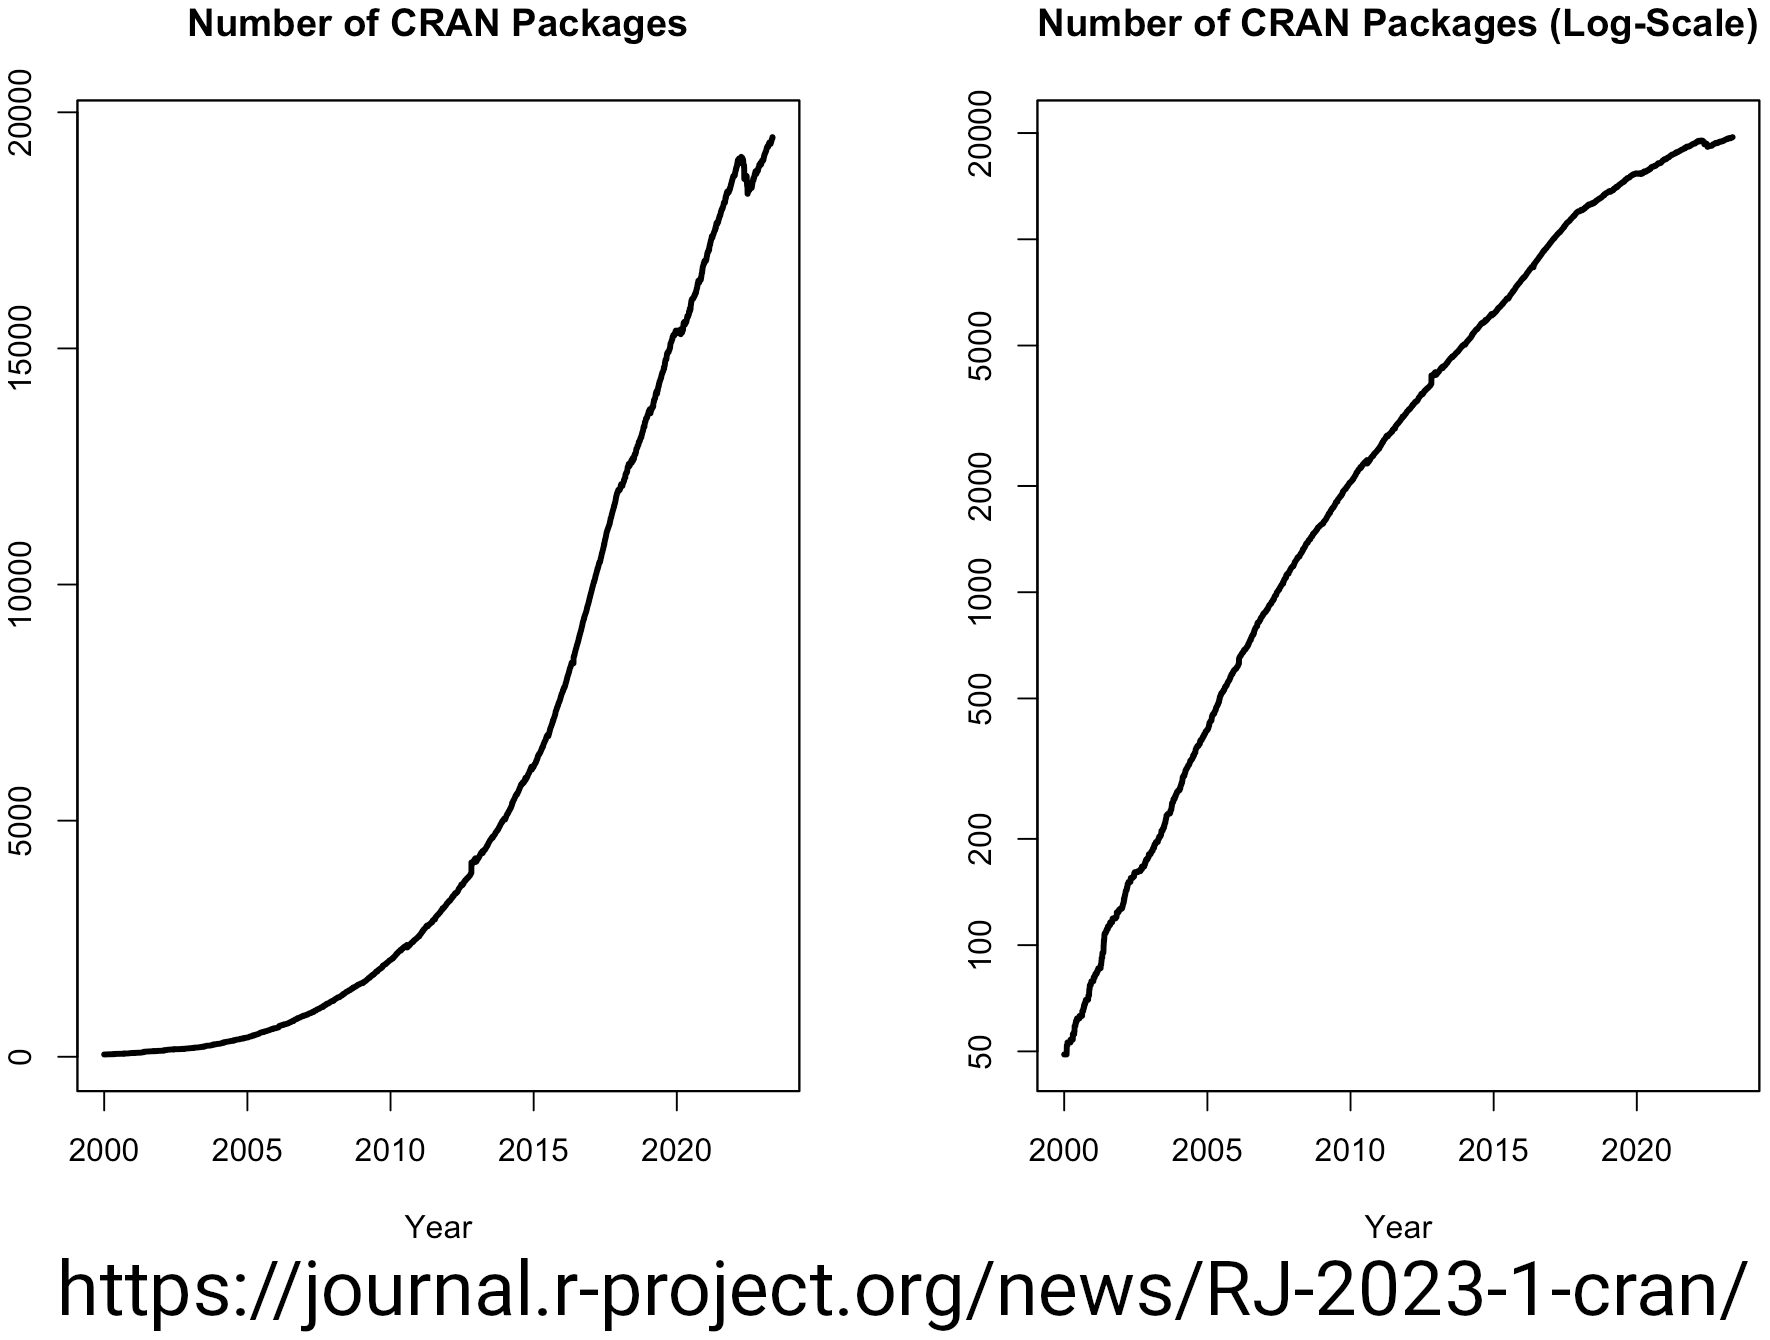
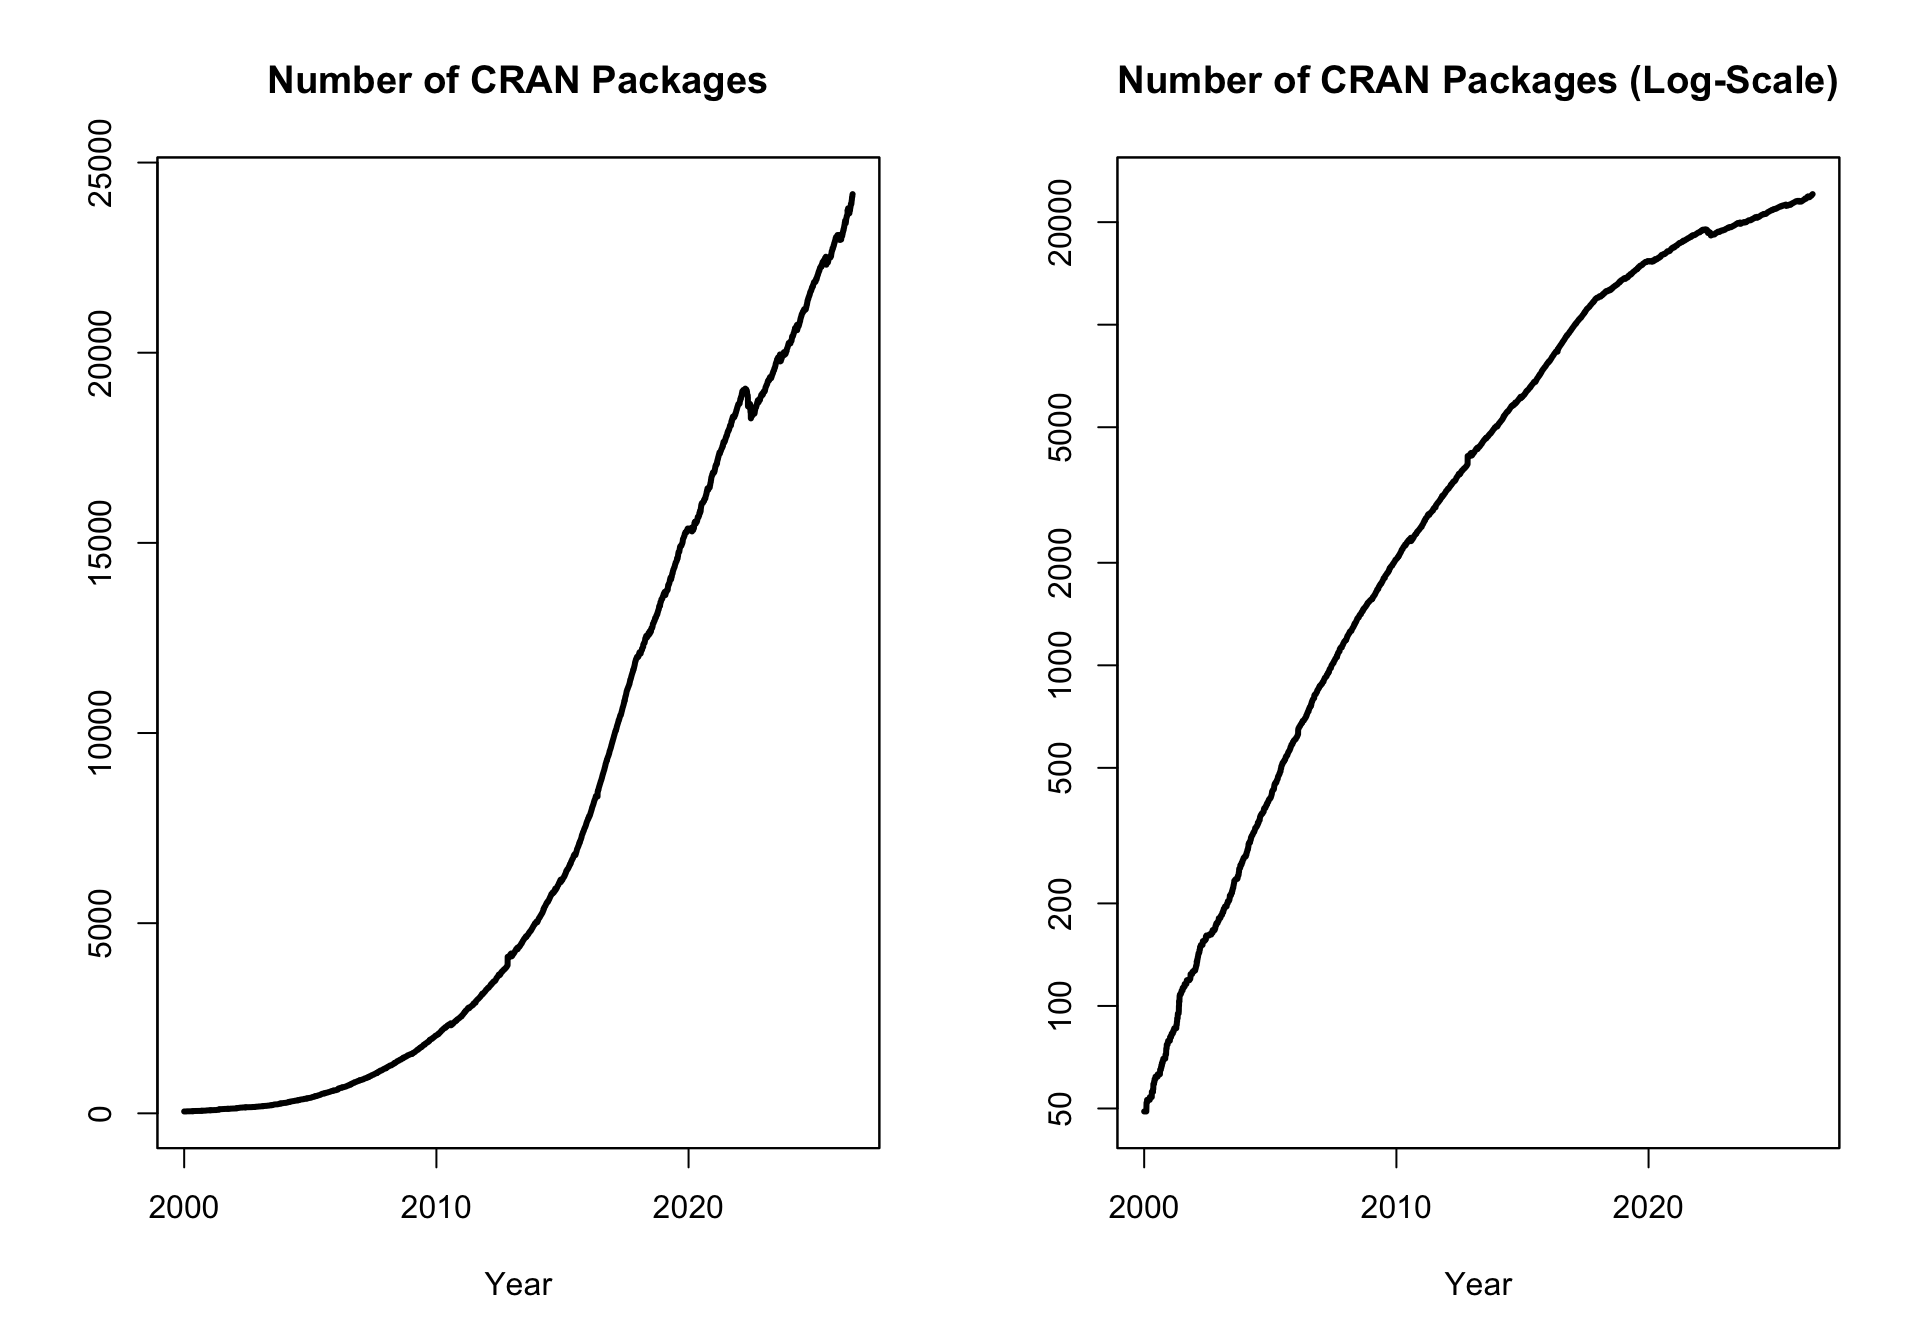
New rewuirements. Updated packages.

diff --git a/presentation/r_mol_data_phylogen.tex b/presentation/r_mol_data_phylogen.tex
@@ -109,12 +109,12 @@
 	\end{itemize}
 \end{frame}
 
-\begin{frame}{Requirements to exam (\enquote{zápočet})}
+\begin{frame}[allowframebreaks]{Requirements to exam (\enquote{zápočet})}
 	\begin{enumerate}
-		\item Be present whole course.
-		\item Be active --- ask and answer questions.
-		\item Process some data. This will be very variable and individual. Everyone should be able to take some data (according to her/his interest) and do several simple analysis (according to her/his interest). Students can of course use manual, internet, discuss with anyone. The aim is to repeat part the most interesting/important for the student and edit introduced commands to fit her/his needs. Students can thus bring their data (if they are not too large), download any data from the internet or I~can give them some toy data.
-		\item Write at least one page (can be split into multiple articles) on Wikipedia about any method or related topic discussed during the course. Again, this is very open, students can write about any topic they like. I~prefer native language of the student (typically to make larger non-English Wikipedia).
+		\item Active participation.
+		\item Asking and answering on-topic questions during the course.
+		\item Loading of any molecular data into R (own, exemplary data from some R package, or from on-line database) and doing several appropriate analysis (according to data type), it is possible to use Internet, documentation, etc. The script does not have to be completely error-free, but it must be functional. If a student uses AI (LLM), they must clearly describe how they used it, what their input was, and what the AI did. Furthermore, in such a case, the script must work with the student’s real data, and must be absolutely error-free.
+		\item Write at least one standard page on Wikipedia on any topic related to the course material. This may include a translation, edits to existing articles, contributions to several shorter articles, etc. The page should be in the language version of Wikipedia corresponding to the student’s native language (typically non-English version). The page must comply with Wikipedia standards (style, sources, links and backlinks, categorization, etc.). Note that exact requirements vary among various language versions. AI (LLM) may be used to review the written article or,to translate from a foreign language. Afterward, manual review and the addition of all necessary elements, such as links, are always required.
 	\end{enumerate}
 \end{frame}
 
@@ -375,8 +375,9 @@
 
 \begin{frame}{CRAN keeps growing\ldots}
 	\begin{center}
-		\includegraphics[height=6.5cm]{cran.png}
+		\includegraphics[height=6cm]{cran.png}
 	\end{center}
+	\url{https://journal.r-project.org/news/RJ-2026-2-cran/}
 \end{frame}
 
 \subsection{Let's start with R}
@@ -431,7 +432,7 @@
     # "#" marks comments - notes within code which are not executed
     help(function) # Help for particular function (package must be loaded)
     ?function # Help for particular function (package must be loaded)
-    ??SearchedTerm # Search for the term within all installed packages
+    ??"SearchedTerm" # Search for the term within all installed packages
     help.search("searched phrase") # Search for the phrase within all
       # installed packages - return list of hits sorted according to
       # type and package (i.e. package::function)
@@ -786,7 +787,7 @@
 		\begin{enumerate}
 			\item Set all repositories in R and use basic commands to install packages (slide~\ref{repos})
 			\item Specify non-CRAN repository every time installing from it (e.g. slide~\ref{sources-diff})
-			\item U special tools (e.g. for \href{https://bioconductor.org/install/}{Bioconductor} --- slide~\ref{bioc})
+			\item Use special tools (e.g. for \href{https://bioconductor.org/install/}{Bioconductor} --- slide~\ref{bioc})
 		\end{enumerate}
 		\item Repositories work in similar way as various app stores in Android, iOS,~\ldots
 	\end{itemize}
@@ -794,7 +795,7 @@
 
 \begin{frame}{Repositories}
 	\begin{itemize}
-		\item Repositories (internet directories full of R packages --- slide~\ref{sources}) can be set via \texttt{options(repos=c(\ldots))} (global) or as \texttt{repos} parameter for each \texttt{install.packages(\ldots)} (every relevant time) command (slide~\ref{repos} and onward)
+		\item Repositories (internet directories full of R packages --- slide~\ref{sources}) can be set via \texttt{options(repos=c(\ldots))} (global) or (every relevant time) as \texttt{repos} parameter for each \texttt{install.packages(\ldots, repos=c(\ldots))} command (slide~\ref{repos} and onward)
 		\item Repositories don't have to be set as global options, e.g. Bioconductor (slide~\ref{bioc}) has its own way to manage packages
 	\end{itemize}
 	\begin{block}{Installation of packages in GUI}
@@ -819,7 +820,7 @@
 		\item \alert{Keep newest version of R and and newest versions of packages!}
 		\item Installation of multiple packages may sometimes fail --- install then packages in smaller groups or one by one --- check output and examine why installation failed --- commonly due to missing external dependency (read installation output and look for notes about missing libraries, etc.)
 		\item Avoid mixing of several R versions
-		\item After upgrade of R (e.g. from 4.4 to 4.5), user \textbf{must} reinstall all packages
+		\item After upgrade of R (e.g. from 4.5 to 4.6), user \textbf{must} reinstall all packages
 	\end{itemize}
 \end{frame}
 
@@ -827,14 +828,14 @@
 	\begin{itemize}
 		\item If repositories from slide~\ref{repos} are not set, it is possible to install in several steps packages from main repository (CRAN) and from another sources (following slides)
 		\item This is the basic and default the most common usage
-		\item After upgrade of R (e.g. from 4.3 to 4.4), all packages must be reinstalled
+		\item After upgrade of R (e.g. from 4.5 to 4.6), all packages must be reinstalled
 	\end{itemize}
 	\begin{spluscode}
     # Simplest usage
     install.packages("PackageName") # Case sensitive!
     ?install.packages # See for more options
     install.packages(pkgs = c("pkg1", "pkg2", "pkg3", ...),
-      dependencies="Imports")
+      dependencies = "Imports")
     # Installed packages are "inactive" - the must by loaded to use them:
     library("PackageName") # Loads installed package (we will do it on the fly)
     # Updates installed packages (by default from CRAN)
@@ -864,7 +865,7 @@
 	\label{Geneland}
 	\begin{itemize}
 		\item Since version 4, not in CRAN anymore, check its \href{https://github.com/gilles-guillot/Geneland/blob/master/vignettes/Geneland.pdf}{manual} and \href{https://github.com/gilles-guillot/Geneland}{homepage}
-		\item On Windows install \href{https://cran.r-project.org/bin/windows/Rtools/}{Rtools} first to be able to compile source package on Windows
+		\item \alert{On Windows} install \href{https://cran.r-project.org/bin/windows/Rtools/}{Rtools} first to be able to compile source package on Windows
 	\end{itemize}
 	\begin{spluscode}
     # Other packages used when using Geneland
@@ -883,10 +884,10 @@
 	\end{spluscode}
 \end{frame}
 
-\begin{frame}[fragile]{Install phyloch package (and ips)}{Example of installation of package not available in any repository and simple installation from GitHub}
+\begin{frame}[fragile]{Install packages phyloch and kdetrees}{Example of installation of package not available in any repository and simple installation from GitHub}
 	\label{phyloch}
 	\begin{itemize}
-		\item Package \href{http://www.christophheibl.de/Rpackages.html}{phyloch} is similar to \href{https://CRAN.R-project.org/package=ips}{ips} from same author (but some functions behave differently) --- both are great for usage of external applications within R, ips seems to develop more and phyloch will probably be deprecated\ldots
+		\item \href{http://www.christophheibl.de/Rpackages.html}{Phyloch} is similar to \href{https://CRAN.R-project.org/package=ips}{ips} from same author --- both are great for usage of external applications within R, ips seems to develop more and phyloch will probably be deprecated\ldots
 	\end{itemize}
 	\begin{spluscode}
     # If not done already, install required packages first
@@ -899,7 +900,7 @@
 	\end{spluscode}
 	\label{kdetreesinst}
 	\begin{itemize}
-		\item Removed from CRAN, forked on \href{https://github.com/V-Z/kdetrees}{GitHub} and slightly updated, see slide~\ref{kdetrees} for usage
+		\item Kdetrees was removed from CRAN, then forked on \href{https://github.com/V-Z/kdetrees}{GitHub}, usage at slide~\ref{kdetrees}
 	\end{itemize}
 	\begin{spluscode}
     # Ensure package 'devtools' is installed
@@ -922,7 +923,7 @@
     ?BiocManager::install # See options
     # Install Bioconductor packages
     BiocManager::install("muscle") # Simplest usage
-    BiocManager::install(pkgs=c("Biostrings", "muscle"))
+    BiocManager::install(pkgs = c("Biostrings", "muscle"))
     # Update installed packages
     BiocManager::install()
     # Search for Bioconductor packages
@@ -938,8 +939,8 @@
     install.packages(c("adegenet", "poppr", "phytools"))
     update.packages() # Update packages
     # Installation from custom repository (ParallelStructure is not used here)
-    install.packages(pkgs="ParallelStructure",
-      repos="https://r-forge.r-project.org/")
+    install.packages(pkgs = "ParallelStructure",
+      repos = "https://r-forge.r-project.org/")
     ?install.packages # See help for details
     # Install CRAN package BiocManager used to manage Bioconductor packages
     if (!requireNamespace("BiocManager")) install.packages("BiocManager")
@@ -963,17 +964,17 @@
 		\begin{itemize}
 			\item Aligner of sequences (from slide~\ref{alignment})
 		\end{itemize}
-		\item Gdal \url{https://gdal.org/}
-		\begin{itemize}
-			\item Recommended for conversion of coordinates for Geneland (from slide~\ref{GenelandUse}), loading of SHP files, etc.
-			\item Optional for Windows users, Linux users should use \texttt{gdal} and respective development (\texttt{-dev(el)}) packages
-		\end{itemize}
-		\item GIMP \url{https://www.gimp.org/}
+% 		\item Gdal \url{https://gdal.org/}
+% 		\begin{itemize}
+% 			\item Recommended for conversion of coordinates for Geneland (from slide~\ref{GenelandUse}), loading of SHP files, etc.
+% 			\item Optional for Windows users, Linux users should use \texttt{gdal} and respective development (\texttt{-dev(el)}) packages
+% 		\end{itemize}
+		\item GIMP \url{https://www.gimp.org/} (optional)
 		\begin{itemize}
 			\item Image manipulation, free open-source alternative to products of Adobe or Corel
 			\item Optional, one of possibilities to view and edit output graphics from R
 		\end{itemize}
-		\item Inkscape \url{https://inkscape.org/}
+		\item Inkscape \url{https://inkscape.org/} (optional)
 		\begin{itemize}
 			\item Vector drawing, free open-source alternative to products of Adobe or Corel
 			\item Optional, one of possibilities to view and edit output graphics from R
@@ -982,7 +983,7 @@
 		\begin{itemize}
 			\item Aligner of sequences (from slide~\ref{alignment})
 		\end{itemize}
-		\item MPI \url{http://fisher.stats.uwo.ca/faculty/yu/Rmpi/}
+		\item MPI \url{http://fisher.stats.uwo.ca/faculty/yu/Rmpi/} (optional)
 		\begin{itemize}
 			\item Library for parallelization used by \href{https://CRAN.R-project.org/package=Rmpi}{Rmpi} package (optional, recommended especially on Windows; macOS and Linux have more options for parallelization)
 			\item If it is not available, respective function can sometimes use different parallelization backend or user can turn off parallelization for respective function
@@ -992,11 +993,11 @@
 			\item Aligner of sequences (from slide~\ref{alignment})
 			\item Use version 3.8 from \url{https://drive5.com/muscle/downloads_v3.htm}, not 5.X
 		\end{itemize}
-		\item proj \url{https://proj.org/}
-		\begin{itemize}
-			\item Required for conversion of coordinates for Geneland (from slide~\ref{GenelandUse})
-			\item Optional for Windows users, Linux users should use \texttt{proj} and respective development (\texttt{-dev(el)}) packages
-		\end{itemize}
+% 		\item proj \url{https://proj.org/}
+% 		\begin{itemize}
+% 			\item Required for conversion of coordinates for Geneland (from slide~\ref{GenelandUse})
+% 			\item Optional for Windows users, Linux users should use \texttt{proj} and respective development (\texttt{-dev(el)}) packages
+% 		\end{itemize}
 		\item Rtools \url{https://cran.r-project.org/bin/windows/Rtools/}
 		\begin{itemize}
 			\item \alert{On Windows only} --- to be able to compile source packages on Windows
